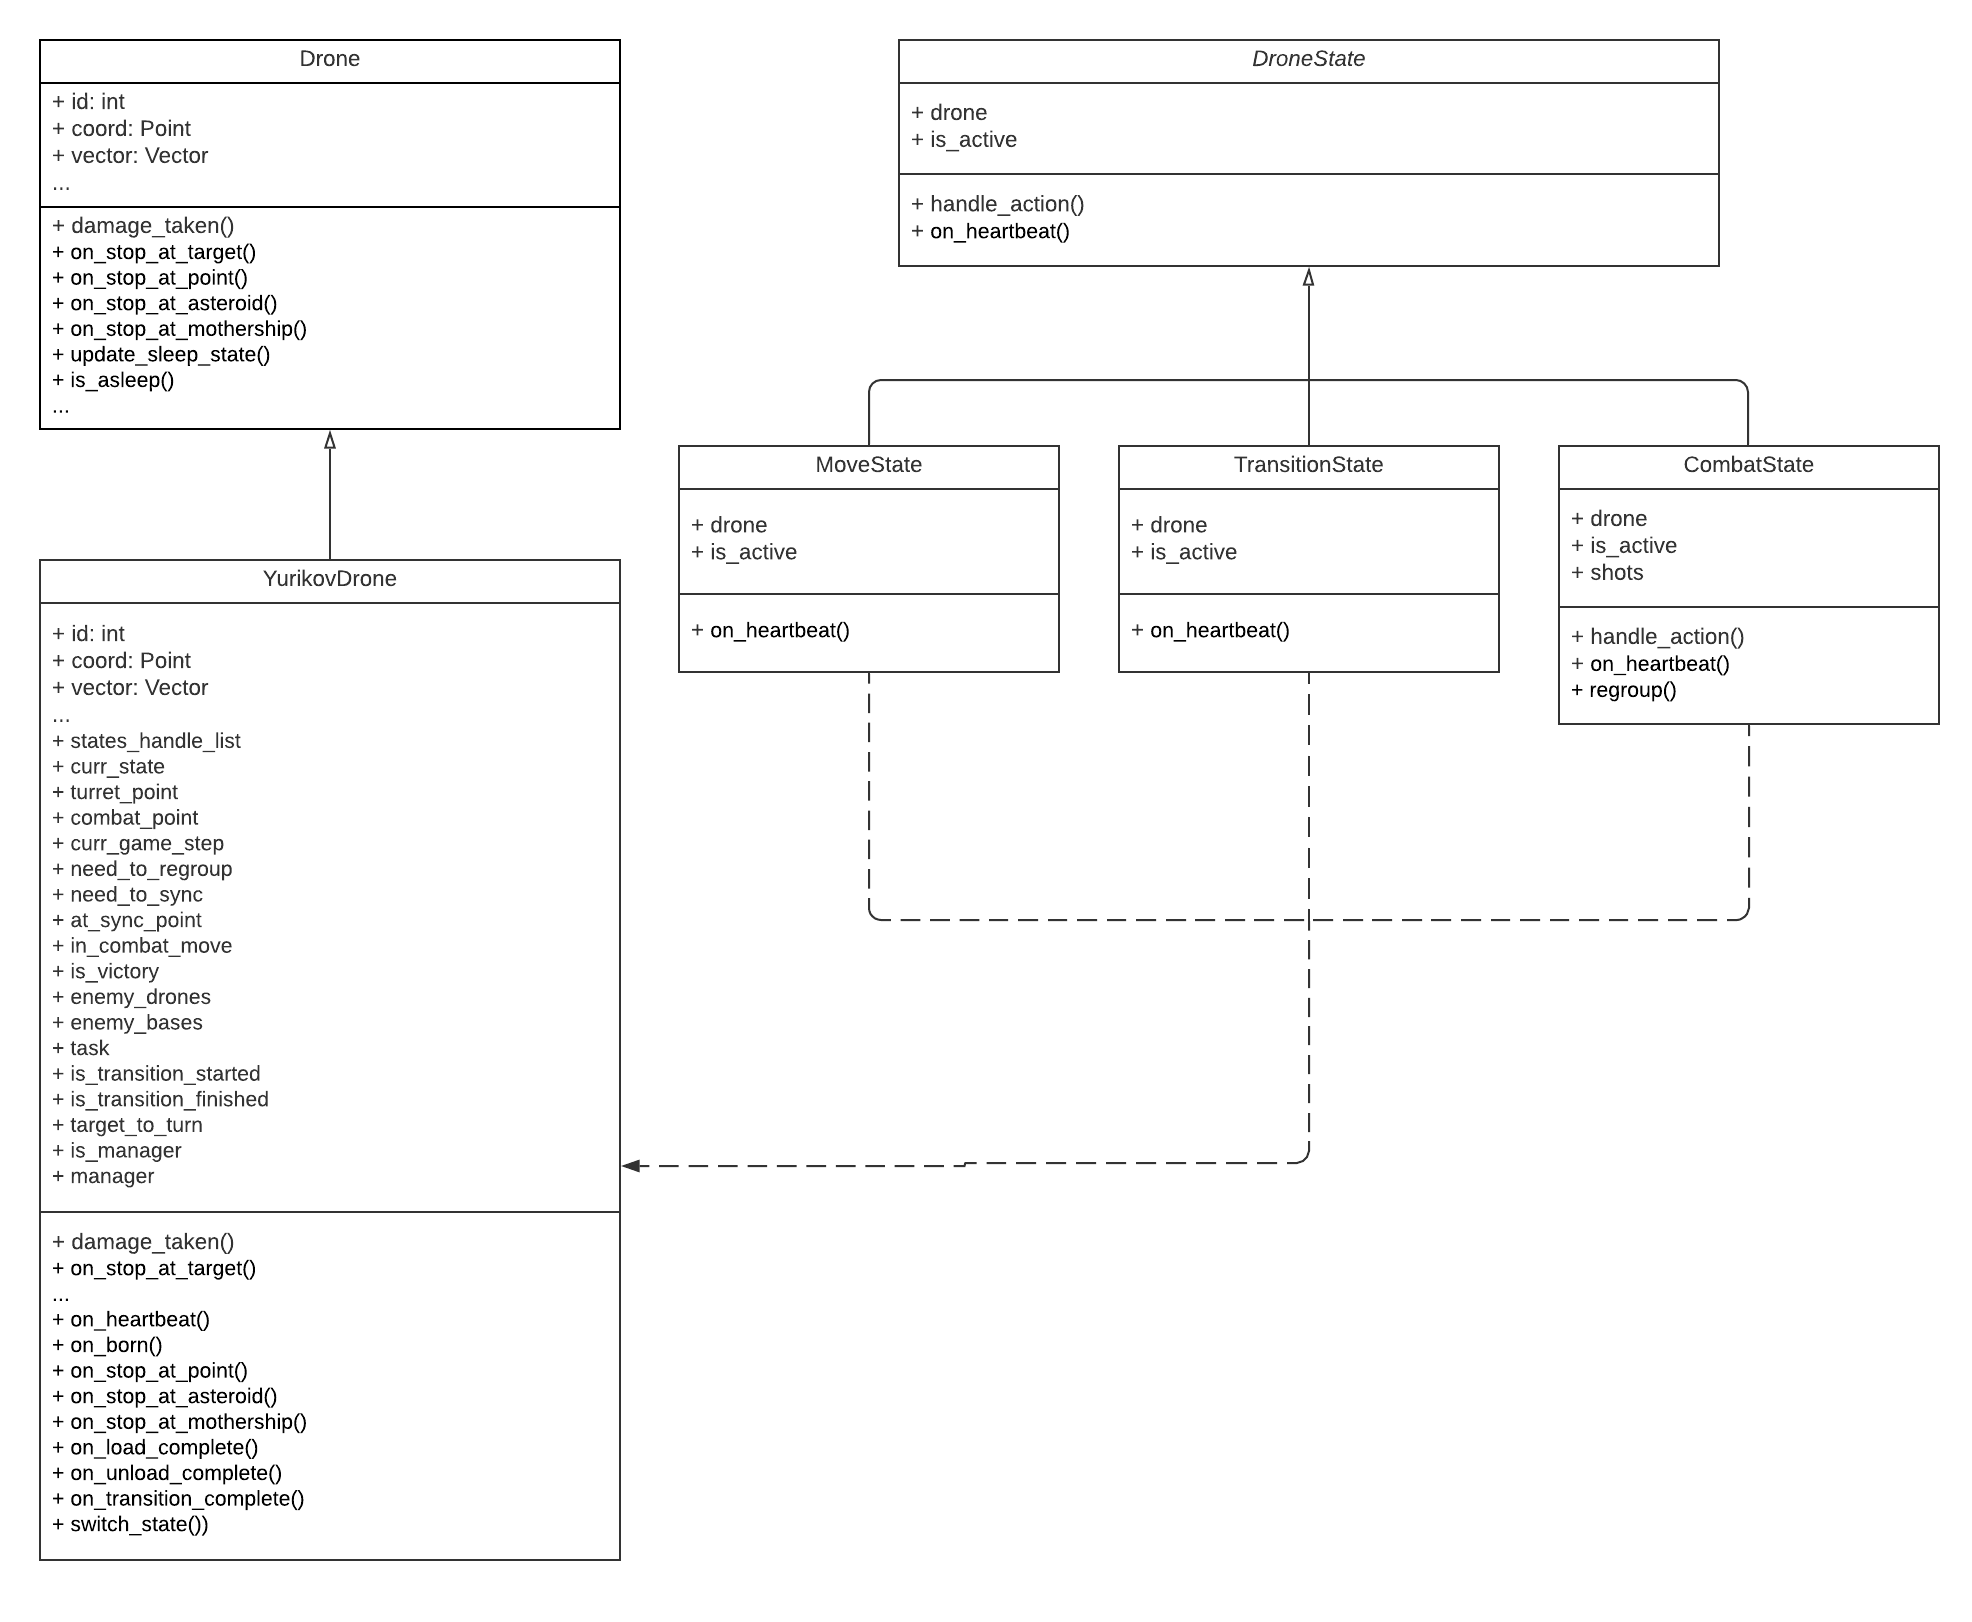
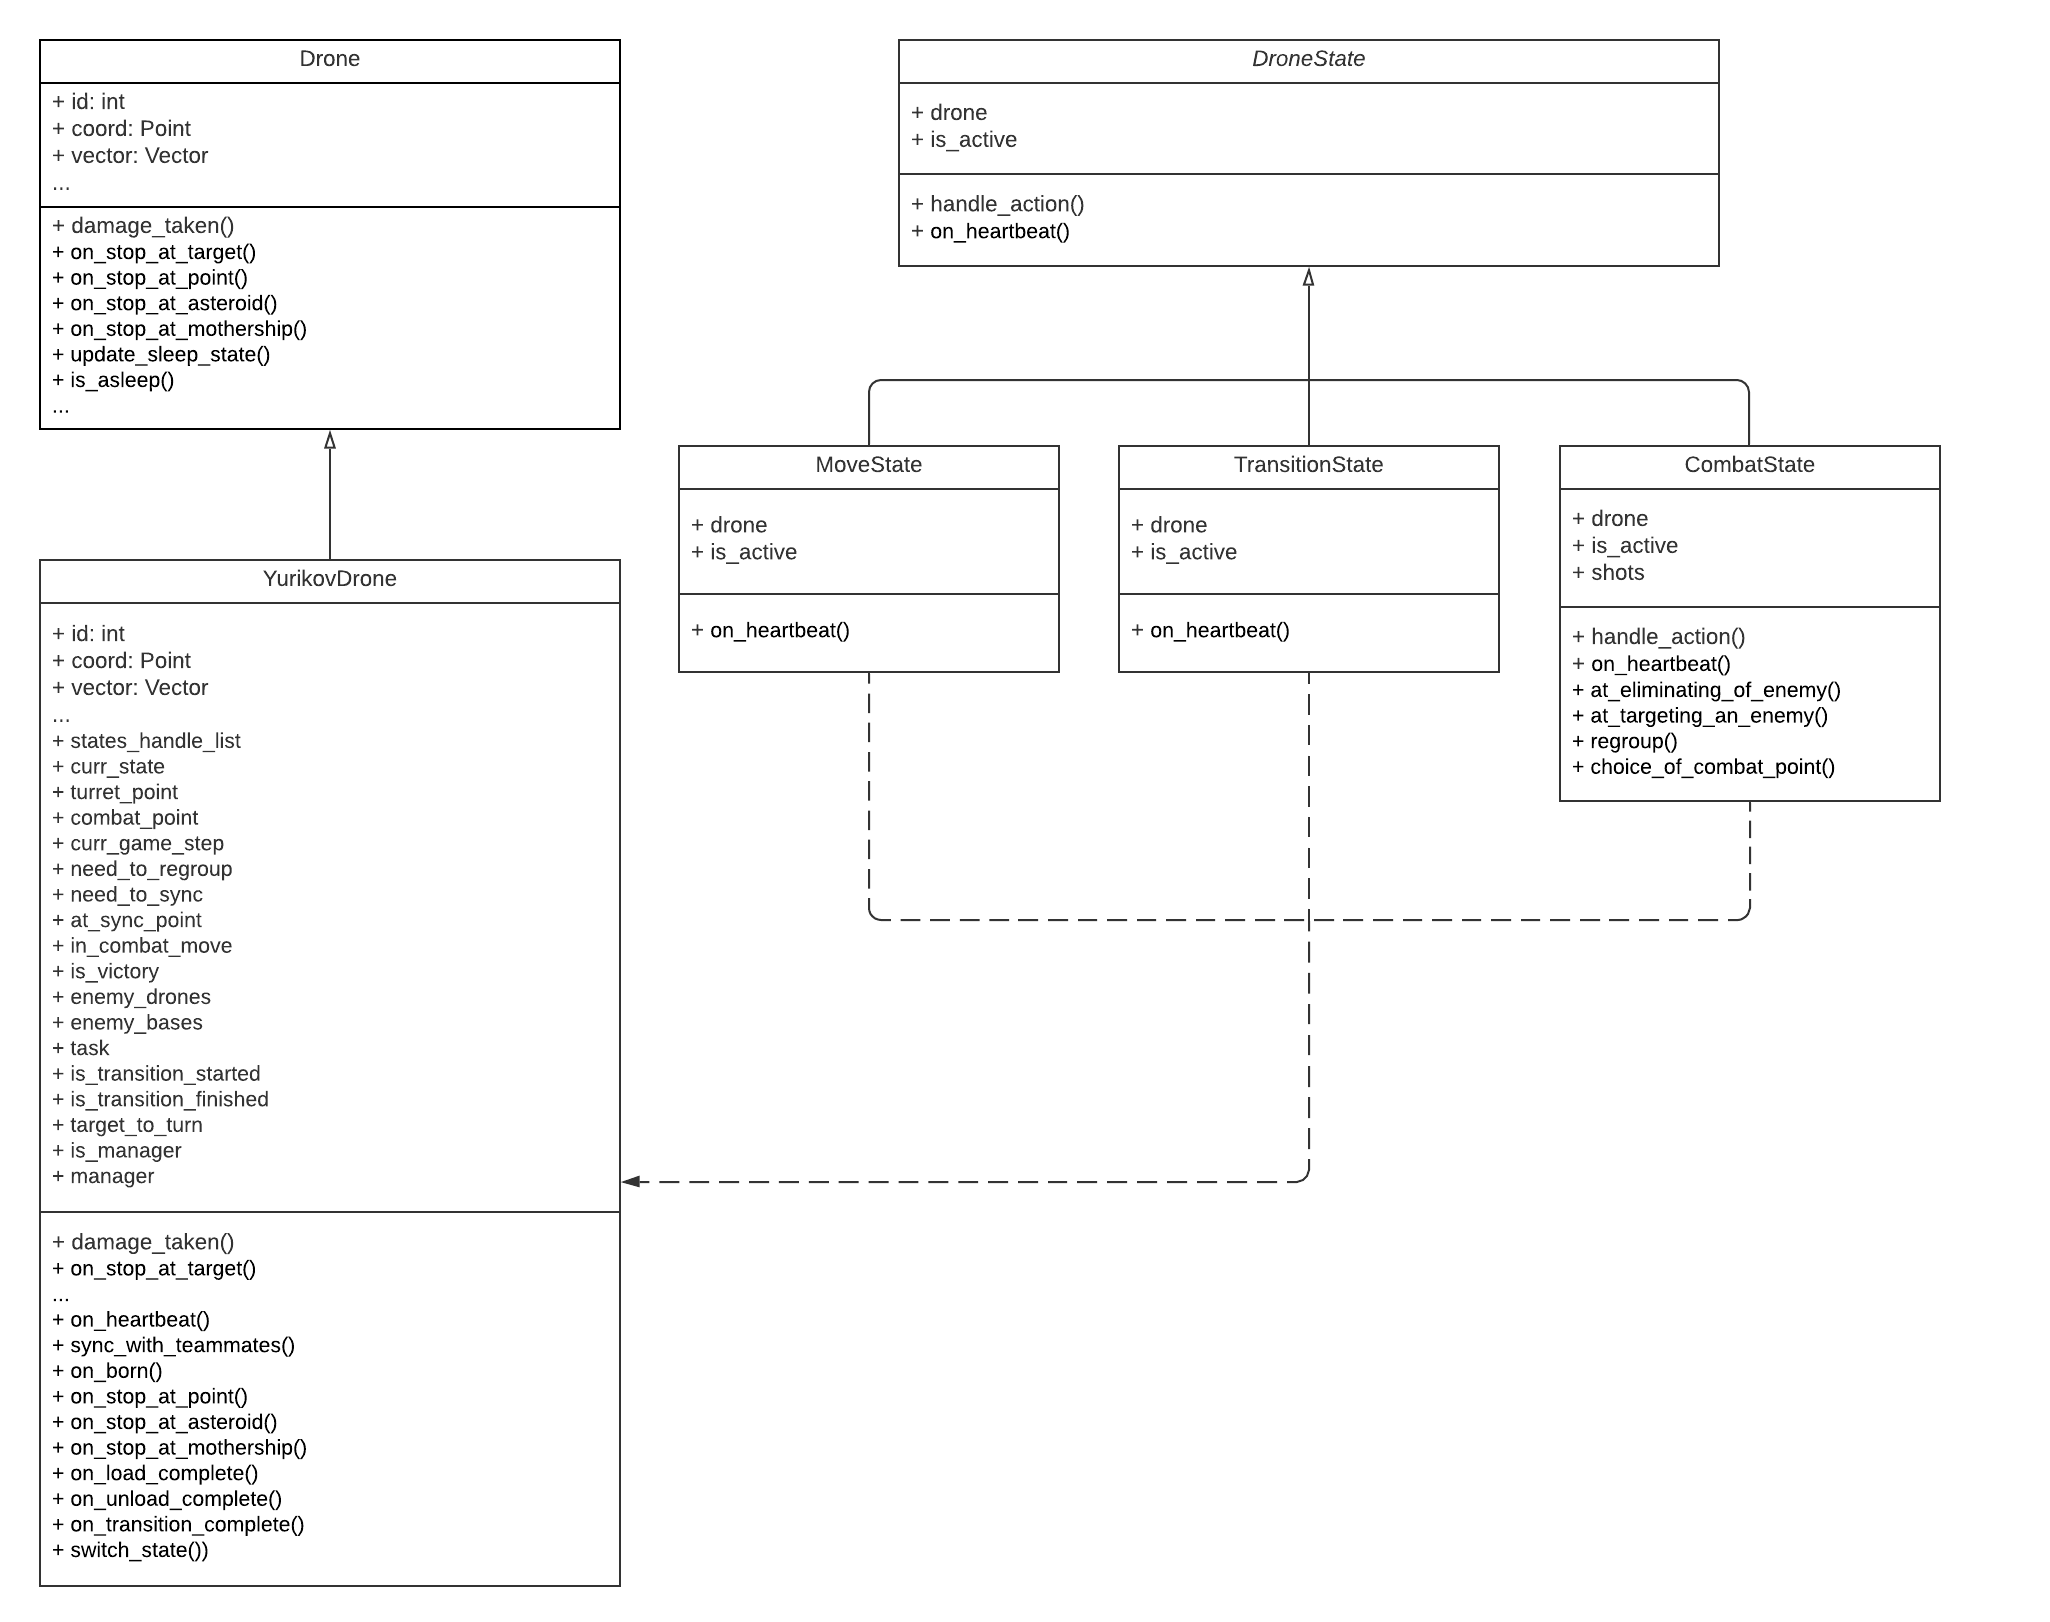
More extracted methods + update UML class diagram

diff --git a/yurikov_team/states.py b/yurikov_team/states.py
@@ -213,30 +213,16 @@ class CombatState(DroneState):
                 вызывает метод regroup();
 
             ! если цель дрона уничтожена:
-                удаляет цель из списка вражеских дронов/баз для менеджера;
-                сообщает всем союзникам, что необходимо перегруппироваться;
-
-                если списки вражеских дронов и баз пустые:
-                    сообщает всем союзникам, что команда победила;
-                    заново формирует списки вражеских баз;
+                вызывает метод at_eliminating_of_enemy();
 
             ! если было сделано 10 выстрелов подряд и (кол-во живых вражеских дронов) >= 3:
                 вызывает метод regroup();
 
             ! если дрон нацелен на врага:
-
-                если расстояние до врага меньше дистанции выстрела:
-                    движется к врагу;
-
-                ! если на линии огня есть союзник и дрон не находится в точке "турели":
-                    сообщает о необходимости перегруппировки;
-                иначе:
-                    стреляет во врага;
+                вызывает метод at_targeting_an_enemy();
 
             иначе:
                 поворачивается к врагу
-
-
 
         :return: None
         """
@@ -264,23 +250,7 @@ class CombatState(DroneState):
                     self.drone.need_to_regroup = True
 
             elif self.drone.target and not self.drone.target.is_alive:
-                manager = self.drone.manager
-                if isinstance(self.drone.target, MotherShip):
-                    manager.enemy_bases.clear()
-                else:
-                    manager.enemy_drones = [drone for drone in manager.scene.drones
-                                            if manager.team != drone.team and drone.is_alive]
-
-                if not manager.enemy_drones:
-                    if not manager.enemy_bases:
-                        self.drone.is_victory = True
-                        manager.enemy_bases = [m_ship for m_ship in manager.scene.motherships
-                                               if m_ship != manager.my_mothership]
-                    else:
-                        self.drone.target = None
-                    manager.enemy_bases.sort(key=lambda b: b.payload, reverse=True)
-                else:
-                    self.drone.need_to_regroup = True
+                self.at_eliminating_of_enemy()
 
             else:
                 _is_enemy = utils.check_for_enemy(self.drone, self.drone.target)
@@ -289,36 +259,91 @@ class CombatState(DroneState):
                     self.regroup()
 
                 elif _is_enemy:
-                    _delta_l = self.drone.distance_to(self.drone.target) - (
-                                self.drone.gun.shot_distance + self.drone.gun.projectile.radius)
-                    _teammate_on_firing_line = utils.check_for_teammates(self.drone)
-                    _is_on_turret_point = self.drone.distance_to(self.drone.turret_point) < 1.0
-
-                    if _delta_l > 0.0:
-                        if _is_on_turret_point:
-                            self.regroup()
-                        else:
-                            self.drone.combat_point = utils.get_next_point(self.drone.coord,
-                                                                           self.drone.direction,
-                                                                           _delta_l)
-                            self.drone.move_at(self.drone.combat_point)
-
-                    elif _teammate_on_firing_line != self.drone:
-                        if _is_on_turret_point:
-                            if self.drone.gun.can_shot:
-                                self.shots += 1
-                            self.drone.gun.shot(self.drone.target)
-                        else:
-                            if not self.drone.manager.enemy_drones:
-                                self.drone.gun.shot(self.drone.target)
-                            else:
-                                self.drone.need_to_regroup = True
-
-                    elif self.drone.gun.can_shot:
-                        self.shots += 1
-                        self.drone.gun.shot(self.drone.target)
+                    self.at_targeting_an_enemy()
                 else:
                     self.drone.turn_to(self.drone.target)
+
+    def at_eliminating_of_enemy(self) -> None:
+        """
+        При ликвидации врага (дрона или базы).
+
+        Удаляет цель из списка вражеских дронов/баз для менеджера;
+        Если список вражеских дронов пустой:
+            если список вражеских баз пустой:
+                сообщает всем союзникам, что команда победила;
+                заново формирует списки вражеских баз;
+            иначе:
+                убирает цель дрона;
+            сортирует список вражеских баз.
+        Иначе:
+            сообщает всем союзникам, что необходимо перегруппироваться.
+
+        :return: None
+        """
+
+        manager = self.drone.manager
+        if isinstance(self.drone.target, MotherShip):
+            manager.enemy_bases.clear()
+        else:
+            manager.enemy_drones = [drone for drone in manager.scene.drones
+                                    if manager.team != drone.team and drone.is_alive]
+        if not manager.enemy_drones:
+            if not manager.enemy_bases:
+                self.drone.is_victory = True
+                manager.enemy_bases = [m_ship for m_ship in manager.scene.motherships
+                                       if m_ship != manager.my_mothership]
+            else:
+                self.drone.target = None
+            manager.enemy_bases.sort(key=lambda b: b.payload, reverse=True)
+        else:
+            self.drone.need_to_regroup = True
+
+    def at_targeting_an_enemy(self) -> None:
+        """
+        При наведении на врага.
+
+        Если расстояние до врага меньше дистанции выстрела:
+            если дрон находтся в точке "турели":
+                вызывает метод regroup();
+            иначе:
+                движется к врагу;
+
+        ! Если на линии огня есть союзник и дрон не находится в точке "турели":
+            сообщает о необходимости перегруппировки;
+
+        Иначе:
+            стреляет во врага;
+
+        :return: None
+        """
+
+        _delta_l = self.drone.distance_to(self.drone.target) - (
+                self.drone.gun.shot_distance + self.drone.gun.projectile.radius)
+        _teammate_on_firing_line = utils.check_for_teammates(self.drone)
+        _is_on_turret_point = self.drone.distance_to(self.drone.turret_point) < 1.0
+        if _delta_l > 0.0:
+            if _is_on_turret_point:
+                self.regroup()
+            else:
+                self.drone.combat_point = utils.get_next_point(self.drone.coord,
+                                                               self.drone.direction,
+                                                               _delta_l)
+                self.drone.move_at(self.drone.combat_point)
+
+        elif _teammate_on_firing_line != self.drone:
+            if _is_on_turret_point:
+                if self.drone.gun.can_shot:
+                    self.shots += 1
+                self.drone.gun.shot(self.drone.target)
+            else:
+                if not self.drone.manager.enemy_drones:
+                    self.drone.gun.shot(self.drone.target)
+                else:
+                    self.drone.need_to_regroup = True
+
+        elif self.drone.gun.can_shot:
+            self.shots += 1
+            self.drone.gun.shot(self.drone.target)
 
     def regroup(self) -> None:
         """
